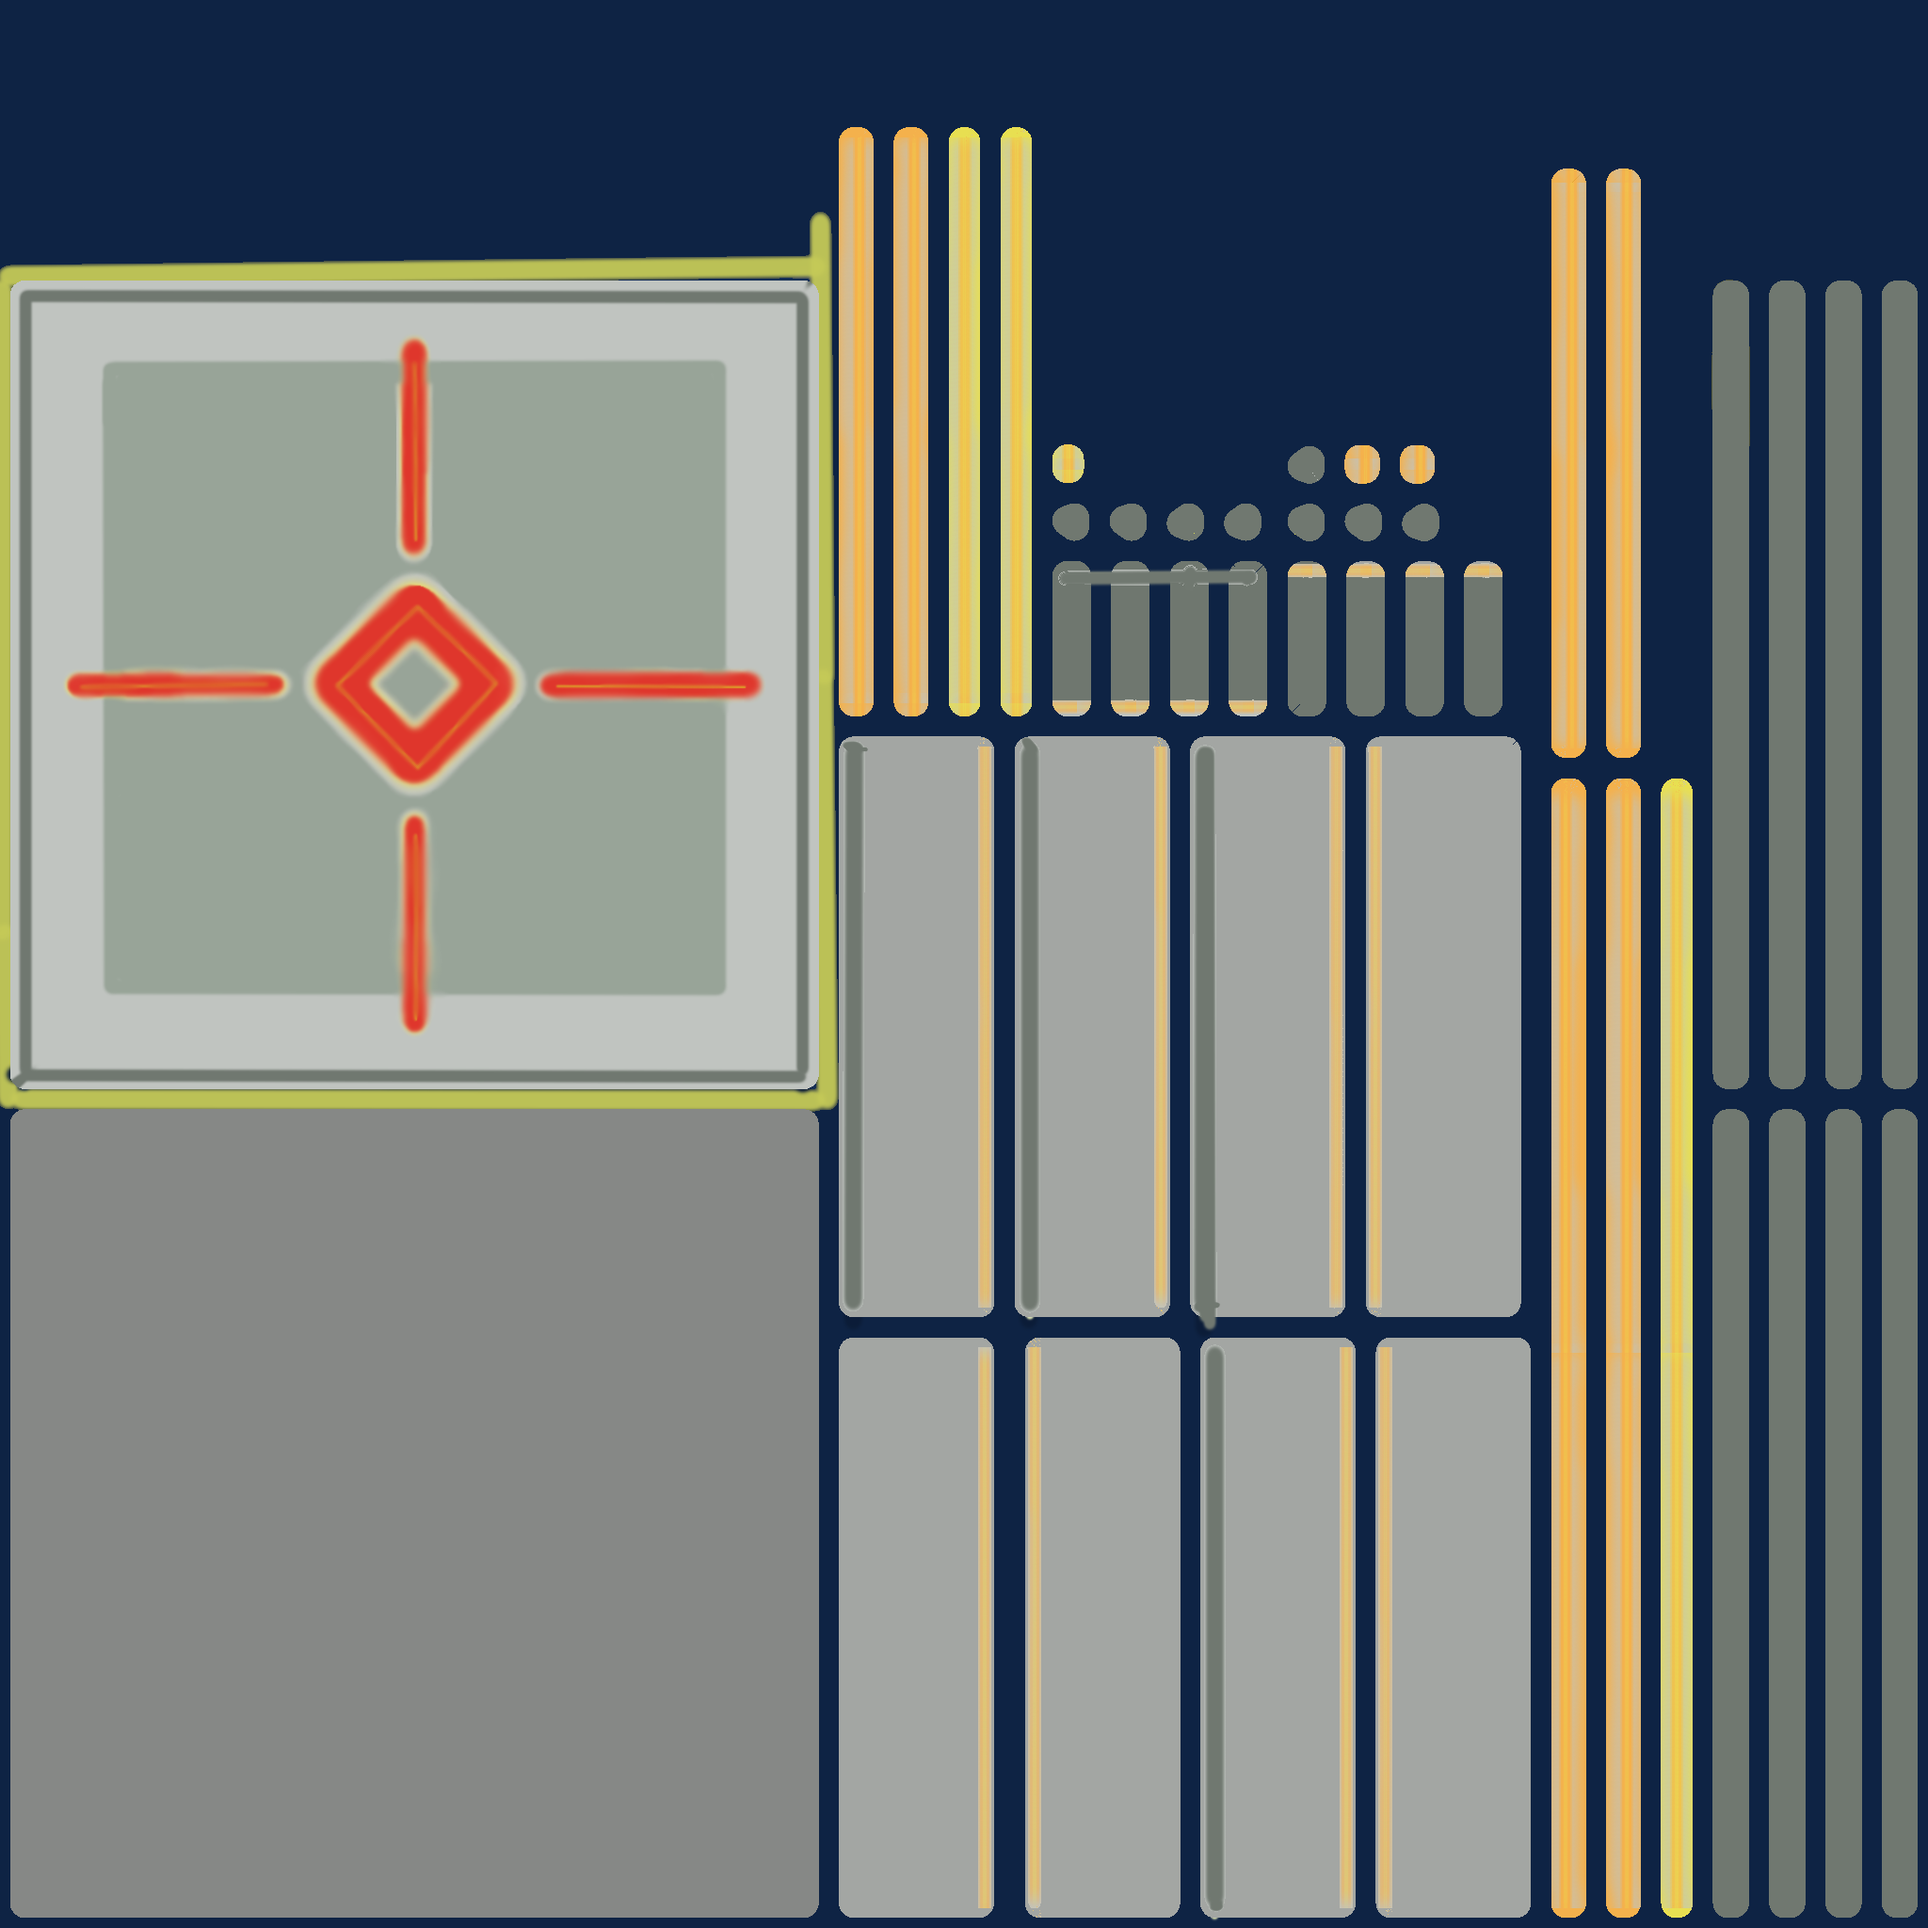
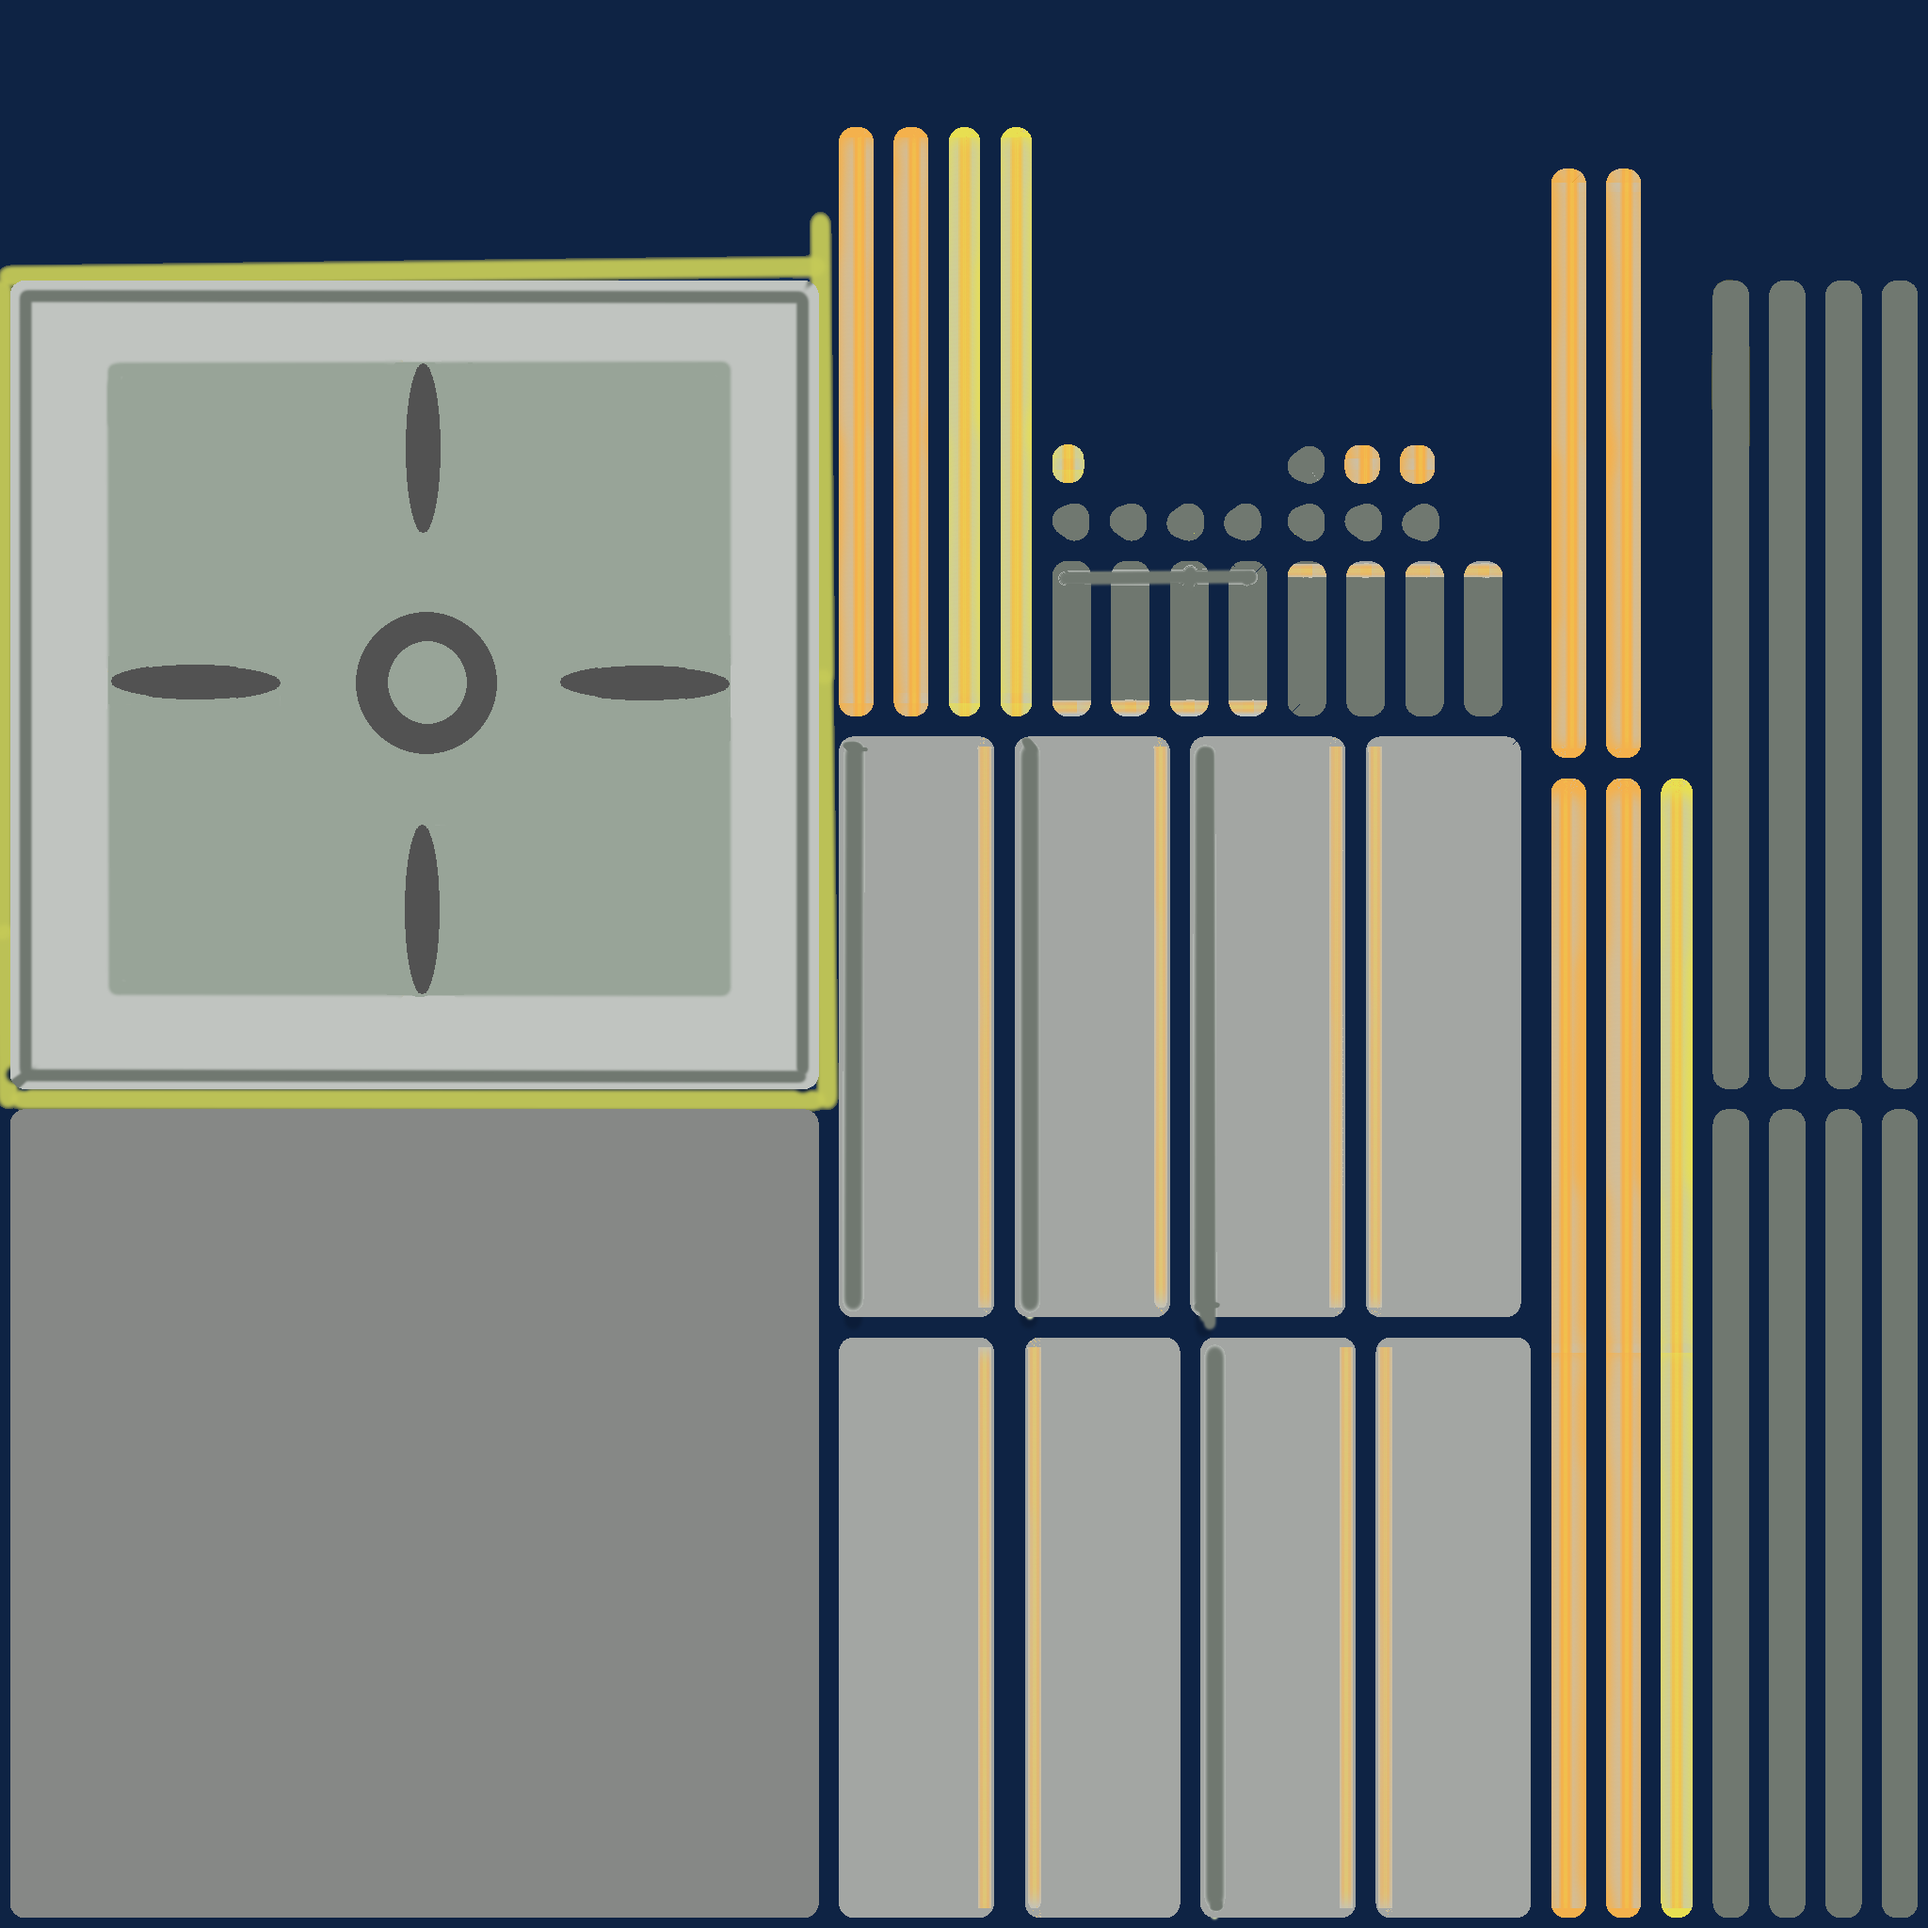
繋がっていないときのモデル読み込み

Changed region(s): [[0.0312, 0.1562, 0.4062, 0.5312]]

diff --git a/Block.cpp b/Block.cpp
@@ -10,7 +10,8 @@ Block::~Block()
 }
 
 void Block::Initialize(ConnectingEffectManager* connectEM,
-	Model* normal, Model* locked, Model* goal, Model* socket,Model* button,Model* disconnectedBlock)
+	Model* normal, Model* locked, Model* goal, Model* socket,Model* button,Model* disconnectedBlock, 
+	Model *disconnectedButton, Model *disconnectedSocketBlock)
 {
 	assert(normal);
 	assert(locked);
@@ -24,6 +25,8 @@ void Block::Initialize(ConnectingEffectManager* connectEM,
 	goal_ = goal;
 	socket_ = socket;
 	disconnectedBlock_ = disconnectedBlock;
+	disconnectedButton_ = disconnectedButton;
+	disconnectedSocketBlock_ = disconnectedSocketBlock;
 
 	//this->debugText_ = debugText_;
 
@@ -58,6 +61,11 @@ void Block::Draw(Camera* camera, UINT64* texhandle, int form, Action action, boo
 	{ 
 		color = { 0.2f,0.1f,0.8f,0.95f }; 
 	}
+	else if(isElec == false)
+	{
+		color = { 0.6f,0.6f,0.6f,0.95f };
+
+	}
 	else {
 		if (color.x > 1.0f) { color.x -= 0.05f; }
 		if (color.x < 1.0f) { color.x += 0.05f; }
@@ -71,36 +79,37 @@ void Block::Draw(Camera* camera, UINT64* texhandle, int form, Action action, boo
 
 	if(isElec == true)
 	{
-		//color = { 0.65f,0.65f,0.85f,0.95f };
-
 		if(form == Form::BLOCK) { draw[0].DrawModel(&worldTransform_, &camera->viewMat, &camera->projectionMat, &normal_[0], color); }
+		if(form == Form::GEAR) { draw[2].DrawModel(&worldTransform_, &camera->viewMat, &camera->projectionMat, &socket_[0], color); }
 		if(form == Form::BUTTON) { draw[6].DrawModel(&worldTransform_, &camera->viewMat, &camera->projectionMat, &normal_[0], color); }
 		if(form == Form::BUTTON) 
 		{ 
 			worldTransform_.trans.y = 1.2;
 			draw[1].DrawModel(&worldTransform_, &camera->viewMat, &camera->projectionMat, &button_[0], color); 
 		}
-
 	}
 	else
 	{
-		color = { 0.6f,0.6f,0.6f,1.0f };
-
-		if(form == Form::BLOCK) { draw[0].DrawModel(&worldTransform_, &camera->viewMat, &camera->projectionMat, &disconnectedBlock_[0], color); }
+		if(form == Form::BLOCK) 
+		{
+			draw[0].DrawModel(&worldTransform_, &camera->viewMat, &camera->projectionMat, &disconnectedBlock_[0], color); 
+		}
+		if(form == Form::GEAR) 
+		{
+			draw[8].DrawModel(&worldTransform_, &camera->viewMat, &camera->projectionMat, &socket_[0], color);
+		}
 		if(form == Form::BUTTON) { draw[6].DrawModel(&worldTransform_, &camera->viewMat, &camera->projectionMat, &normal_[0], color); }
 		if(form == Form::BUTTON) 
 		{ 
 			worldTransform_.trans.y = 1.2;
-			draw[1].DrawModel(&worldTransform_, &camera->viewMat, &camera->projectionMat, &button_[0], color); 
+			draw[7].DrawModel(&worldTransform_, &camera->viewMat, &camera->projectionMat, &disconnectedButton_[0], color);
 		}
 
 	}
 
-
-
 	/*if (form == Form::BLOCK) { draw[0].DrawModel(&worldTransform_, &camera->viewMat, &camera->projectionMat, &normal_[0], color); }
 	if (form == Form::BUTTON) { draw[1].DrawModel(&worldTransform_, &camera->viewMat, &camera->projectionMat, &button_[0], color); }*/
-	if (form == Form::GEAR) { draw[2].DrawModel(&worldTransform_, &camera->viewMat, &camera->projectionMat, &socket_[0], color); }
+	//if (form == Form::GEAR) { draw[2].DrawModel(&worldTransform_, &camera->viewMat, &camera->projectionMat, &socket_[0], color); }
 	if (form == Form::GOAL) {
 		count++;
 		if (count % 240 == 0 || count % 240 == 10 || count % 240 == 20 || count % 240 == 30)
@@ -112,7 +121,6 @@ void Block::Draw(Camera* camera, UINT64* texhandle, int form, Action action, boo
 
 	if (form == Form::LOCKED) { draw[4].DrawModel(&worldTransform_, &camera->viewMat, &camera->projectionMat, &locked_[0], color); }
 	if (form == Form::Electric) { draw[5].DrawModel(&worldTransform_, &camera->viewMat, &camera->projectionMat, &locked_[0], color); }
-
 
 }
 

diff --git a/BlockManager.cpp b/BlockManager.cpp
@@ -87,7 +87,7 @@ BlockManager::~BlockManager()
 
 //初期化
 void BlockManager::Initialize(ConnectingEffectManager *connectEM, Tutorial *tutorial, CameraManager *cameraM, GoalEffect *goalEffect,
-	Model *normal, Model *locked, Model *goal, Model *Socket, Model *button, Model *disconnectedBlock)
+	Model *normal, Model *locked, Model *goal, Model *Socket, Model *button, Model *disconnectedBlock, Model *disconnectedButton, Model *disconnectedSocketBlock)
 {
 	blocks_.clear();
 	worldmats_.clear();
@@ -142,7 +142,8 @@ void BlockManager::Initialize(ConnectingEffectManager *connectEM, Tutorial *tuto
 
 			//worldmats_[i][j]->rot = { 0.0f,0.0f,0.0f };
 
-			blocks_[i][j]->Initialize(connectEM, normal, locked, goal, Socket, button, disconnectedBlock);
+			blocks_[i][j]->Initialize(connectEM, normal, locked, goal, Socket, button, disconnectedBlock,
+				disconnectedButton, disconnectedSocketBlock);
 
 			//ブロックの種類を設定
 
@@ -160,7 +161,8 @@ void BlockManager::Initialize(ConnectingEffectManager *connectEM, Tutorial *tuto
 
 			worldmats_[i][j].SetWorld();
 
-			block_->Initialize(connectEM, normal, locked, goal, Socket, button, disconnectedBlock);
+			block_->Initialize(connectEM, normal, locked, goal, Socket, button, disconnectedBlock,
+				disconnectedButton, disconnectedSocketBlock);
 
 			//軸になっているかどうか
 			isAxis_[i][j] = false;
@@ -287,7 +289,7 @@ void BlockManager::Draw(Camera *camera)
 			{
 				if(isAxis_[i][j])
 				{
-					connectEM->GenerateRandomConnectingEffect(worldmats_[i][j].trans, blockRadius_, blockRadius_ / 2.0f, 15, 3, { 1.0f,0.3f,0.2f,1.0f });
+					connectEM->GenerateRandomConnectingEffect(worldmats_[i][j].trans, blockRadius_, blockRadius_ / 2.0f, 15, 3, { 1.0f,0.3f,0.2f,0.95f });
 				}
 				else
 				{
@@ -632,21 +634,7 @@ void BlockManager::UpdateRotate(Vec3 &rotatePos)
 
 					rotatePos.z = axis_pos_.z + GetVec3xM4(distancePosPlayer, worldMat.matWorld, 0).z;
 
-					/*if(isElec[i][j] == true)
-					{
-						isElec[i][j] = false;
-					}*/
 				}
-
-				/*if(action_[i][j] == Action::Connect)
-				{
-					isElec[i][j] = false;
-				}
-
-				if(isAxis_[i][j] == true)
-				{
-					isElec[i][j] = false;
-				}*/
 			}
 		}
 

diff --git a/Scene.cpp b/Scene.cpp
@@ -81,7 +81,8 @@ void SceneGame::Initialize()
 	scene->cameraM->Initialize();
 
 	scene->blockManager->Initialize(scene->connectEM.get(), scene->tutorial.get(), scene->cameraM.get(),
-		scene->goalE.get(), scene->model[1], scene->model[2], scene->model[3], scene->model[4],scene->model[5],scene->model[6]);
+		scene->goalE.get(), scene->model[1], scene->model[2], scene->model[3], scene->model[4],scene->model[5],scene->model[6],
+		scene->model[8], scene->model[9]);
 	scene->connectEM->Initialize();
 	scene->player->Initialize(scene->blockManager->blockRadius_ * 2.0f, scene->blockManager, scene->playerSocket.get()
 		, scene->connectE2M.get(), scene->tutorial.get(), scene->cameraM.get(), scene->model[0], &scene->debugText);
@@ -300,6 +301,9 @@ Scene::~Scene()
 	delete model[5];
 	delete model[6];
 	delete model[7];
+	delete model[8];
+	delete model[9];
+
 }
 
 void Scene::ChangeState(SceneState* state)
@@ -337,6 +341,9 @@ void Scene::Initialize()
 	model[6] = Model::LoadFromOBJ("DisconnectedBlock");
 	
 	model[7] = Model::LoadFromOBJ("FloorAndWall");
+	model[8] = Model::LoadFromOBJ("DisconnectedButton");
+	model[9] = Model::LoadFromOBJ("DisconnectedSocketBlock");
+
 
 	//imgui
 	imGuiManager = new ImGuiManager();
@@ -359,7 +366,7 @@ void Scene::Initialize()
 
 
 	blockManager = new BlockManager();
-	blockManager->Initialize(connectEM.get(), tutorial.get(), cameraM.get(), goalE.get(), model[1], model[2], model[3], model[4],model[5],model[6]);
+	blockManager->Initialize(connectEM.get(), tutorial.get(), cameraM.get(), goalE.get(), model[1], model[2], model[3], model[4],model[5],model[6],model[8],model[9]);
 
 	stageManager = std::make_unique<StageManager>();
 	stageManager->Initialize(blockManager);

diff --git a/BlockManager.h b/BlockManager.h
@@ -20,7 +20,7 @@ public:
 
 	//初期化
 	void Initialize(ConnectingEffectManager* connectEM, Tutorial* tutorial, CameraManager* cameraM, GoalEffect* goalEffect,
-		Model* normal, Model* locked, Model* goal, Model* Socket,Model* Button,Model* disconnectedBlock);
+		Model* normal, Model* locked, Model* goal, Model* Socket,Model* Button,Model* disconnectedBlock,Model* disconnectedButton,Model* disconnectedSocketBlock);
 
 	//更新
 	void Update();
